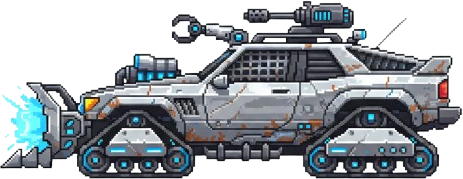
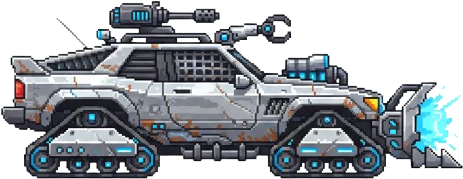
Enhance leveling system with car upgrades and dynamic enemy spawning
- Add car progression: car_1 through car_5 assets loaded based on player level
- Implement automatic car sprite upgrade on level up (caps at car_5)
- Add dynamic enemy spawning: 0-3 additional enemies spawn per level up
- Spawn new enemies relative to player position
- Increase initial enemy density: spawn every 300 pixels across world (16384 width)
- Pass scene and spawnEnemy function to xpOrbs module for level-up spawning

diff --git a/src/game.js b/src/game.js
@@ -2,7 +2,7 @@ import { WORLD_WIDTH, WORLD_HEIGHT, CAMERA_PADDING, SIZE_CONFIG, SIZE_CHANGE_COO
 import { changeSize, setPlayer as setPlayerPlayer, setEnemies as setEnemiesPlayer, getPlayerSize, getSizeChangeTimer, setSizeChangeTimer } from './player.js';
 import { spawnEnemy, updateEnemyAI, damageEnemy, setEnemies as setEnemiesEnemies, setPlatforms as setPlatformsEnemies } from './enemies.js';
 import { fireProjectile, setPlayer as setPlayerProjectiles, setProjectiles, setInputs as setInputsProjectiles, updateProjectiles } from './projectiles.js';
-import { spawnXPOrb, gainXP, checkLevelUp, damagePlayer, setPlayer as setPlayerXP, setPlatforms as setPlatformsXP, setXPOrbs, setLevelText, getPlayerStats, updateXPOrbMagnetism } from './xpOrbs.js';
+import { spawnXPOrb, gainXP, checkLevelUp, damagePlayer, setPlayer as setPlayerXP, setPlatforms as setPlatformsXP, setXPOrbs, setLevelText, getPlayerStats, updateXPOrbMagnetism, setScene as setSceneXP, setSpawnEnemyFunc } from './xpOrbs.js';
 import { createUIElements, updateUIBars } from './ui.js';
 
 const config = {
@@ -37,8 +37,12 @@ let debugText;
 let uiElements;
 
 function preload() {
-    // Load tank image
-    this.load.image('car', './assets/tank.png');
+    // Load car images for different levels
+    this.load.image('car_1', './assets/car_1.png');
+    this.load.image('car_2', './assets/car_2.png');
+    this.load.image('car_3', './assets/car_3.png');
+    this.load.image('car_4', './assets/car_4.png');
+    this.load.image('car_5', './assets/car_5.png');
     // Load rockgiant enemy image
     this.load.image('enemy', './assets/rockgiant.png');
 }
@@ -81,8 +85,8 @@ function create() {
     ground.setOrigin(0.5, 0.5);
     ground.setScale(1).refreshBody();
     
-    // Create player (tank)
-    player = this.add.sprite(100, 650, 'car');
+    // Create player (car)
+    player = this.add.sprite(100, 650, 'car_1');
     player.setScale(0.25);
     this.physics.add.existing(player);
     player.body.setBounce(0.2);
@@ -105,6 +109,8 @@ function create() {
     setPlayerXP(player);
     setPlatformsXP(platforms);
     setXPOrbs(xpOrbs);
+    setSceneXP(this);
+    setSpawnEnemyFunc(spawnEnemy);
     setEnemiesEnemies(enemies);
     setPlatformsEnemies(platforms);
     
@@ -113,9 +119,9 @@ function create() {
     setLevelText(uiElements.levelText);
     
     // Spawn initial enemies
-    spawnEnemy(this, 800, 680);
-    spawnEnemy(this, 1600, 680);
-    spawnEnemy(this, 2400, 680);
+    for (let x = 300; x < WORLD_WIDTH; x += 300) {
+        spawnEnemy(this, x, 680);
+    }
     
     // Collisions
     this.physics.add.collider(enemies, platforms);

diff --git a/src/xpOrbs.js b/src/xpOrbs.js
@@ -4,6 +4,8 @@ let player;
 let platforms;
 let xpOrbs;
 let levelText;
+let scene;
+let spawnEnemyFunc;
 const MAGNETISM_RANGE = 150; // Distance to start pulling orbs
 const MAGNETISM_SPEED = 250; // Speed to pull orbs
 
@@ -19,6 +21,8 @@ export function setPlayer(p) { player = p; }
 export function setPlatforms(pl) { platforms = pl; }
 export function setXPOrbs(x) { xpOrbs = x; }
 export function setLevelText(lt) { levelText = lt; }
+export function setScene(s) { scene = s; }
+export function setSpawnEnemyFunc(func) { spawnEnemyFunc = func; }
 export function getPlayerStats() { return playerStats; }
 export function updatePlayerStats(stats) { playerStats = stats; }
 
@@ -70,11 +74,36 @@ export function checkLevelUp() {
         playerStats.health = playerStats.maxHealth;
         playerStats.xpToLevel = Math.floor(playerStats.xpToLevel * 1.1);
         
+        // Upgrade car sprite based on level
+        upgradePlayerCar();
+        
         if (levelText) {
             levelText.setText(`LEVEL ${playerStats.level}`);
         }
         
         console.log(`Level Up! Now level ${playerStats.level}`);
+    }
+}
+
+export function upgradePlayerCar() {
+    if (!player) return;
+    
+    // Cars are car_1 through car_5 (levels 1-5)
+    const carLevel = Math.min(playerStats.level, 5);
+    const carTexture = `car_${carLevel}`;
+    
+    player.setTexture(carTexture);
+    
+    // Spawn additional enemies based on level
+    if (spawnEnemyFunc && scene) {
+        const enemiesToSpawn = Math.min(playerStats.level - 1, 3); // Spawn 0-3 additional enemies
+        const spawnOffsets = [300, 800, 1600];
+        
+        for (let i = 0; i < enemiesToSpawn; i++) {
+            const xOffset = spawnOffsets[i];
+            const spawnX = player.x + xOffset;
+            spawnEnemyFunc(scene, spawnX, 680);
+        }
     }
 }
 
